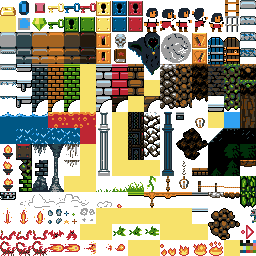
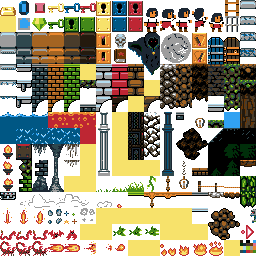
Minor fixes to levels, some more green bg

Changed region(s): [[0.3125, 0.3125, 0.375, 0.4375], [0.8125, 0.4375, 0.875, 0.5]]

diff --git a/example/src/app/suspension.cpp b/example/src/app/suspension.cpp
@@ -15,13 +15,13 @@ suspension::suspension(
 	int _h,
 	int _star_count
 
-):pli{_pli}, rng{_rng}, w{_w}, h{_h}, movement{0.}
+):pli{_pli}, rng{_rng}, w{_w}, h{_h}, movement{0.}, time{0.}
 {
 
 	points.reserve(_star_count);
 	for(int i=0; i<_star_count; i++) {
 
-		points.push_back({0,0,0,0});
+		points.push_back({0,0,0,0,0,0,0.f});
 	}
 
 	shuffle();
@@ -32,11 +32,21 @@ void suspension::draw_background(
 	ldv::screen& _screen
 ) {
 
+	ldv::rgba_color variants[]={
+		ldv::rgba8(255,255,255,255),
+		ldv::rgba8(157, 157, 157, 255),
+		ldv::rgba8(27, 38, 50,255),
+		ldv::rgba8(178, 220, 239, 255)
+	};
+
 	for(const auto& dot : points) {
 
+		int x=dot.x+dot.dispersion;
+		int y=dot.y + std::floor(sin(time+dot.time_displacement) * dot.amplitude);
+
 		ldv::point_representation pt{
-			{dot.x+dot.dispersion, dot.y},
-			ldv::rgba8(255,255,255,255)
+			{x, y},
+			variants[dot.variant]
 		};
 		pt.draw(_screen);
 	}
@@ -53,8 +63,15 @@ void suspension::tic(
 	tdelta _delta
 ) {
 
+	auto constexpr two_pi=2 * M_PI;
+	time+=_delta;
+	if(time >= two_pi) { //Wrap time to one.
+
+		time-=two_pi;
+	}
+
 	calculate_motion(_delta);
-	
+
 	for(auto& pt : points) {
 
 		//now, movement goes from -1 to 1. 0 is no dispersion,  -1 is
@@ -100,6 +117,11 @@ void suspension::shuffle() {
 		curpt.y=pt.y;
 		curpt.max_dispersion=rng.get(10, 40);
 		curpt.dispersion=0;
+		curpt.amplitude=rng.get(1, 10);
+		curpt.variant=rng.get(0, 3);
+
+		float fraction=(float)rng.get(0, 10) / 10.f;
+		curpt.time_displacement=1.f-(fraction / 5.f);
 
 		i++;
 	}

diff --git a/example/include/app/suspension.h b/example/include/app/suspension.h
@@ -27,7 +27,9 @@ class suspension:
 
 	struct point{
 		int x, y;
-		short dispersion, max_dispersion;
+		//max_dispersion=x movement range, amplitude is for y
+		short dispersion, max_dispersion, amplitude, variant;
+		float time_displacement;
 	};
 
 	void                    shuffle();
@@ -36,7 +38,7 @@ class suspension:
 	const player_input&     pli;
 	random&                 rng;
 	int                     w, h;
-	double                  movement;
+	double                  movement, time;
 	std::vector<point>      points;
 };
 }

diff --git a/example/include/app/random.h b/example/include/app/random.h
@@ -5,7 +5,7 @@
 namespace app {
 
 /**
- * pseudo-random generator between 0-255. A instance so that we can add doom
+ * pseudo-random generator between 0-512. A instance so that we can add doom
  * style pseudo-random deterministic values.
  */
 class random {

diff --git a/example/src/app/random.cpp b/example/src/app/random.cpp
@@ -3,7 +3,7 @@
 using namespace app;
 
 random::random()
-	:numgen{0, 255}
+	:numgen{0, 512}
 {}
 
 int random::get(